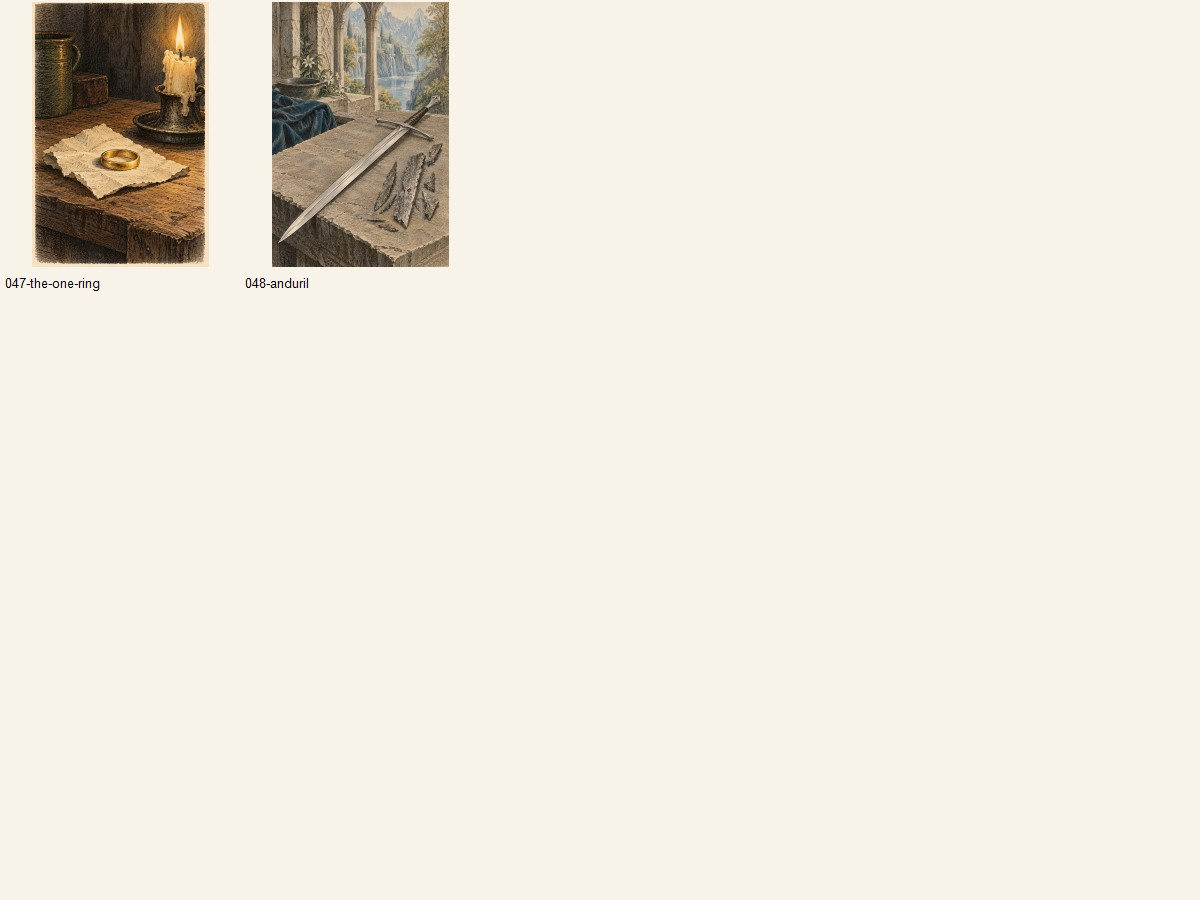
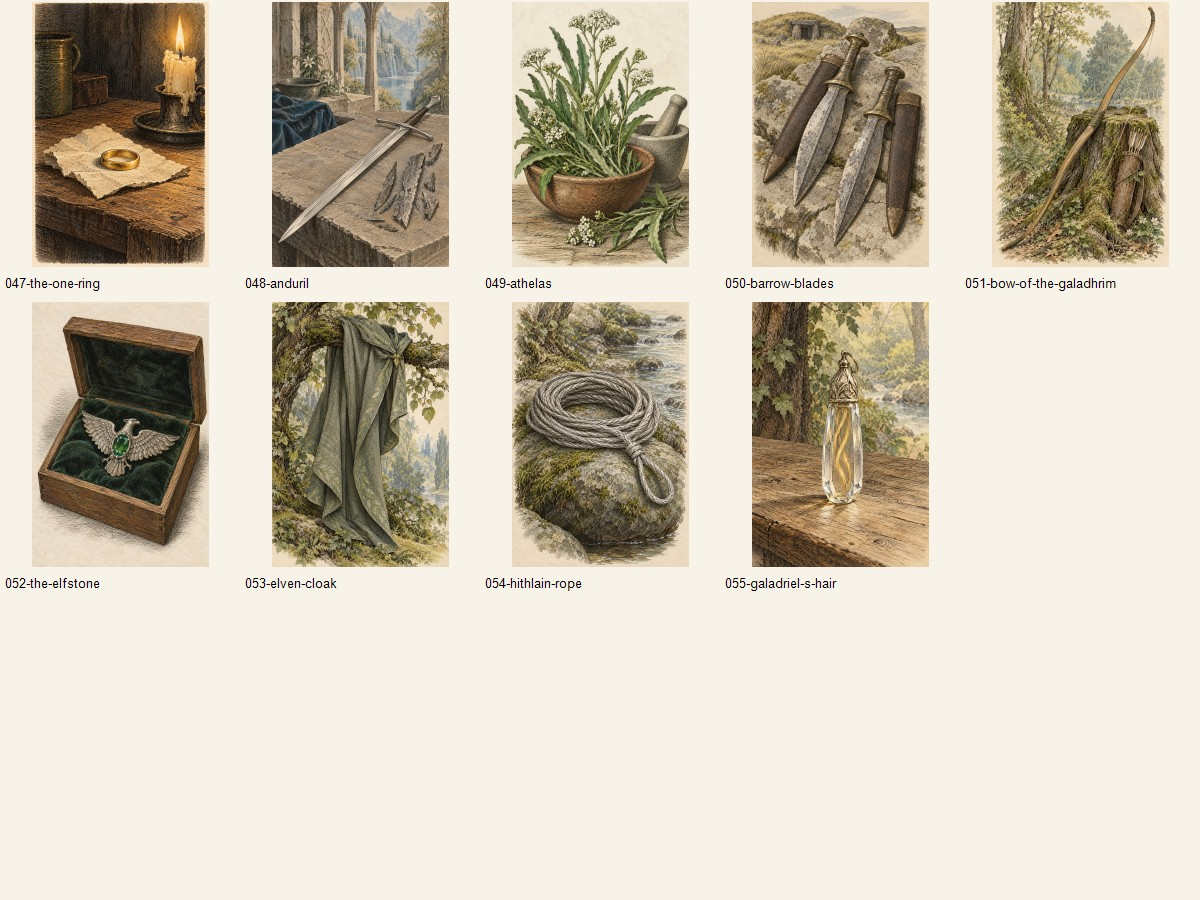
Add book-based Fellowship and Two Towers item art

diff --git a/scripts/lotr-two-books-art/PROGRESS.md b/scripts/lotr-two-books-art/PROGRESS.md
@@ -11,14 +11,14 @@ Work on both books together. Reuse art for the same subject across books, but ne
 ## Inventory and progress
 
 - `manifest.json` lists 217 distinct original illustrations for 389 cover, character, item and location slots: 173 Fellowship and 216 Two Towers. Exactly 172 illustrations are shared across books. Book-specific extras are one Fellowship cover and 44 Two Towers subjects.
-- 49 final images are accepted, registered, and converted to JPEG: assets 001-048 and 174. The PNG masters are ignored by Git. 168 assets remain pending.
+- 56 final images are accepted, registered, and converted to JPEG: assets 001-055 and 174. The PNG masters are ignored by Git. 161 assets remain pending.
 - `make-contact-sheets.ps1` produces category sheets for visual review; the first cover and character sheets were generated and inspected.
 - The accepted Fellowship cover depicts Tom Bombadil guiding the four hobbits from the Old Forest, a book scene omitted by the films. The accepted Two Towers cover depicts Faramir speaking to Frodo and Sam in Henneth Annûn. Accepted shared art includes a distinctly non-film Aragorn, Arwen, a shadow-and-flame Balrog without film horns or wings, and Barliman Butterbur.
 - An earlier Fellowship cover with a nine-person lineup, an earlier Aragorn that resembled the film actor, a multi-pose Boromir, a blond film-like Legolas, an eye-shaped Sauron, and initial Erestor, Glóin, and Saruman variants with film-like Council or character imagery were rejected and are not part of the registered assets.
 - The `.pwk` files contain 69 and 104 linked image blobs. The companion `.pwb` bundles contain 80 and 66 embedded blobs, including 14 map blobs in each. Many apparent missing references resolve through `.pwb`. The artwork task will replace all linked and embedded non-map art; preserve the functional map bundles. Two map layers in each book reuse a map image for navigation overlays; the no-repeat rule is enforced on cover, character, item and location illustrations.
 - A trial set of schematic SVG maps was discarded after discovering the embedded maps. No map replacements are pending.
 - `import-art.mjs` is prepared but intentionally refuses to run until all 217 approved JPEGs exist. It will import unique image refs per book, keep the map-only PWB, archive old blob metadata, update the catalogue, and correct Fellowship's `Endoras` typo to `Edoras`.
-- `validate.mjs` checks the checkpoint now and will check final art URL/hash uniqueness, map resolution, source removal, and catalogue sizes after import. Current checkpoint validation passes at 49/217.
+- `validate.mjs` checks the checkpoint now and will check final art URL/hash uniqueness, map resolution, source removal, and catalogue sizes after import. Current checkpoint validation passes at 56/217.
 
 ## Next actions
 
